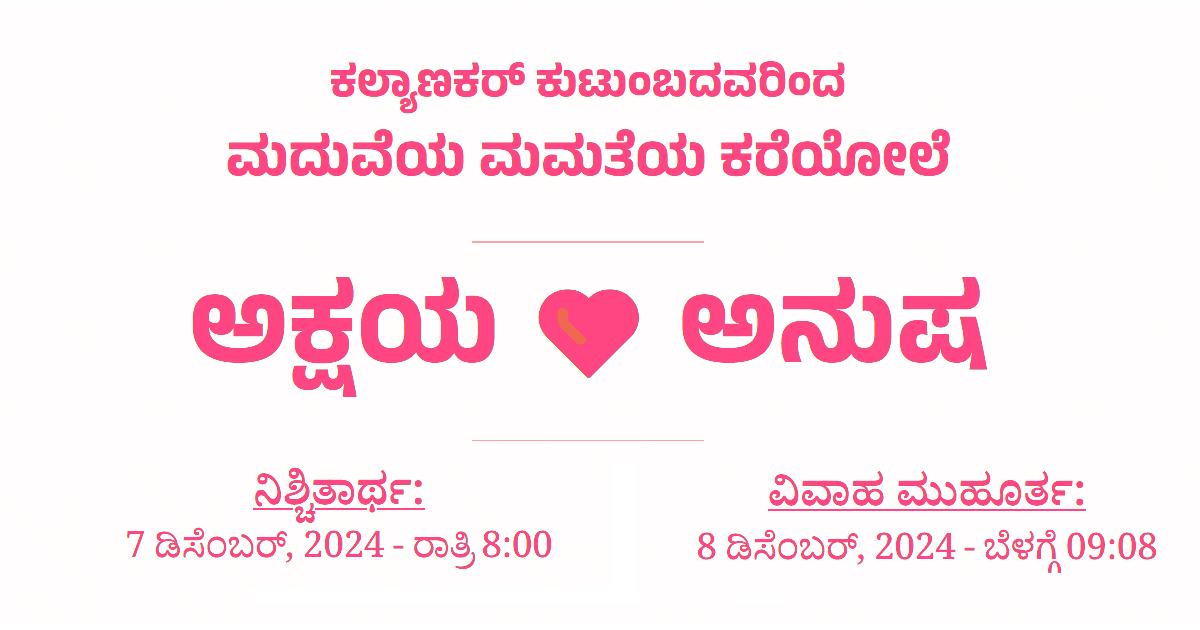
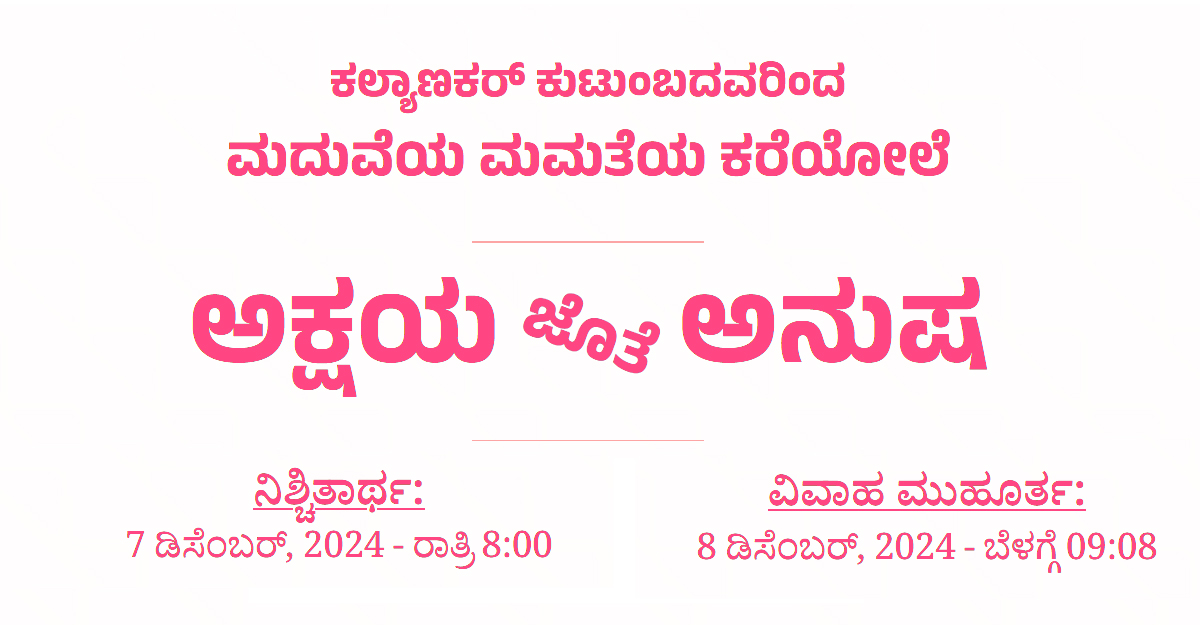
fixes

Changed region(s): [[0.4317, 0.4524, 0.555, 0.6032]]

diff --git a/src/components/TitleComponent.jsx b/src/components/TitleComponent.jsx
@@ -3,10 +3,10 @@ const TitleComponent = () => {
     <div className="relative pt-16 pb-8 px-4">
       <div className="relative bg-white/90 backdrop-blur-sm max-w-3xl p-8 mx-auto">
         <div className="text-center">
-          <h3 className="text-red-600 mb-2 font-kannada font-bold text-xl sm:text-2xl leading-tight">
+          <h3 className="text-blue-900 mb-2 font-kannada font-bold text-xl sm:text-2xl leading-tight">
             ಕಲ್ಯಾಣಕರ್ ಕುಟುಂಬದವರಿಂದ
           </h3>
-          <span className="text-red-600 text-2xl sm:text-3xl font-bold font-kannada leading-snug">
+          <span className="text-blue-900 text-2xl sm:text-3xl font-bold font-kannada leading-snug">
             ಮದುವೆಯ ಮಮತೆಯ ಕರೆಯೋಲೆ
           </span>
 
@@ -14,8 +14,8 @@ const TitleComponent = () => {
           
           <div className="flex items-center justify-center gap-2 sm:gap-4 mb-6">
             <h1 className="text-4xl sm:text-6xl font-bold text-red-800 font-kannada">ಅಕ್ಷಯ</h1>
-            <div className="flex items-center justify-center">
-              <span className="text-3xl sm:text-5xl font-bold text-red-800 -translate-y-2">❤</span>
+            <div className="flex items-center justify-center" style={{ transform: "rotate(20deg)" }}>
+              <span className="text-xl sm:text-3xl font-bold text-pink-700 font-kannada stroke-orange-700 stroke-2">ಜೊತೆ</span>
             </div>
             <h1 className="text-4xl sm:text-6xl font-bold text-red-800 font-kannada">ಅನುಷ</h1>
           </div>

diff --git a/src/components/DirectionsComponent.jsx b/src/components/DirectionsComponent.jsx
@@ -2,7 +2,7 @@ import { FaMapMarkerAlt } from 'react-icons/fa';
 
 const DirectionsComponent = () => {
   return (
-    <div className="text-center w-full max-w-6xl mx-auto px-4 py-10">
+    <div className="text-center w-full max-w-6xl mx-auto px-4 py-2">
       {/* Directions Button */}
       <div className="mt-8">
         <a
@@ -19,7 +19,7 @@ const DirectionsComponent = () => {
       {/* Embedded Google Map */}
       <div className="mt-8">
         <iframe
-          src="https://www.google.com/maps/embed?pb=!1m18!1m12!1m3!1d11102.25115005065!2d75.07922279944555!3d14.237201034879151!2m3!1f0!2f0!3f0!3m2!1i1024!2i768!4f13.1!3m3!1m2!1s0x3bbbf3a24b643173%3A0x293d4dcef4b84503!2sDhananjaneya%20Swamy%20Temple!5e1!3m2!1sen!2sin!4v1732784492924!5m2!1sen!2sin"
+          src="https://www.google.com/maps/embed?pb=!1m18!1m12!1m3!1d11102.25115005065!2d75.07922279944555!3d14.237201034879151!2m3!1f0!2f0!3f0!3m2!1i1024!2i768!4f13.1!3m3!1m2!1s0x3bbbf3a24b643173%3A0x293d4dcef4b84503!2sDhananjaneya%20Swamy%20Temple!5e0!3m2!1sen!2sin!4v1732784492924!5m2!1sen!2sin"
           width="100%"
           height="300"
           allowFullScreen=""
